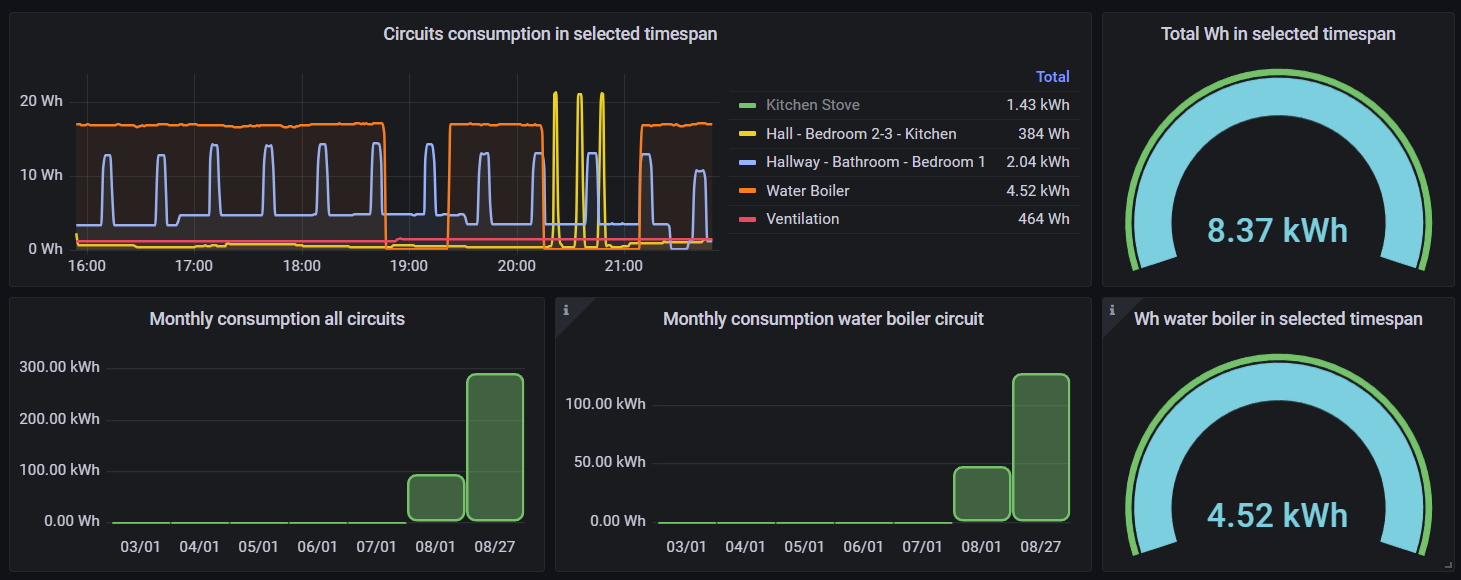
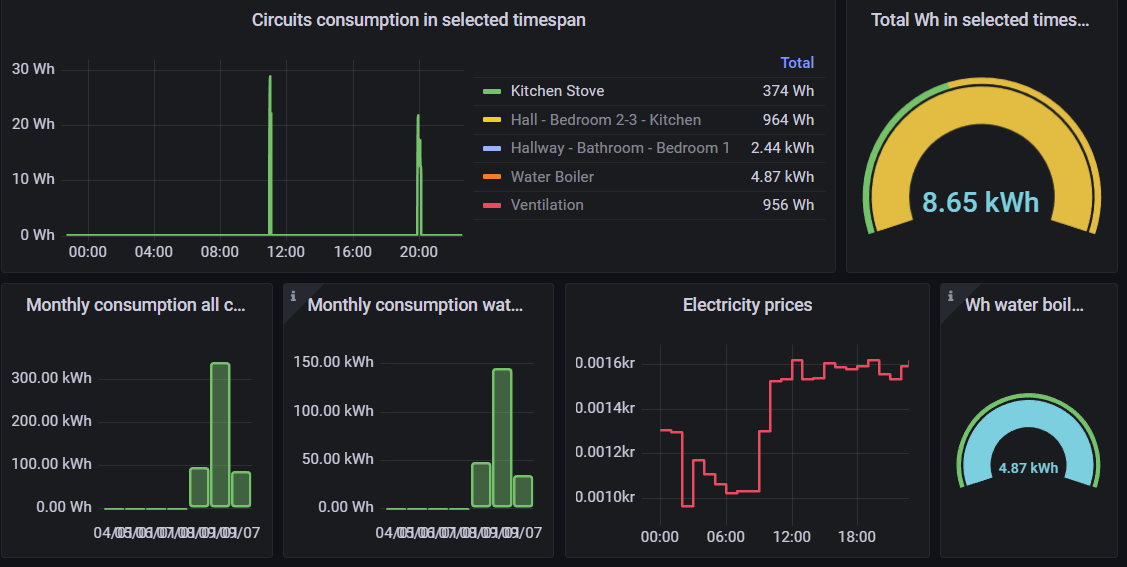
add electricity price

diff --git a/power_price/power_price_deamon.py b/power_price/power_price_deamon.py
@@ -1,0 +1,66 @@
+#
+#start at startup
+#sudo vi /etc/rc.local
+#sudo python /home/lun/power_monitor/power_price/power_price_deamon.py &
+#
+
+import requests
+from datetime import datetime, timedelta
+import time
+import influxdb_client
+from influxdb_client.client.write_api import SYNCHRONOUS
+#Påslag øre i abonomang
+ABO_PRICE_KR=2.80/100
+MVA=1.25
+
+
+
+
+url = "http://192.168.10.137:8086"
+bucket = "Home"
+token = ""
+orgid = "4f37428e4085d8e2"
+#"tagset": [],
+authtoken = "azEnZHCUW24OFSszKP7x1JagkdfUCJeIA-0lduU-jzHhS-zDXu9FyQ9R6ICXdT8Q92GeQmgbBYIF_lNgU-PScQ=="
+#"begdate": 1667257200
+
+client = influxdb_client.InfluxDBClient(
+   url=url,
+   token=authtoken,
+   org=orgid
+)
+
+# Write script
+write_api = client.write_api(write_options=SYNCHRONOUS)
+
+#p = influxdb_client.Point.measurement("pw_price_nok").field("val", 1.14).time("2023-09-06T18:30:00.224Z")
+#write_api.write(bucket=bucket, org=orgid, record=p)
+
+
+
+def parse_price(url):
+    r = requests.get(url=url )
+    r.status_code
+
+    file = r.json()
+    for element in file:
+        val = (element['NOK_per_kWh']*ABO_PRICE_KR*MVA)
+        time = element['time_start'][:-6]+".0Z"
+        p = influxdb_client.Point.measurement("pw_price_nok").field("val", val).time(time)
+        write_api.write(bucket=bucket, org=orgid, record=p)
+
+    return file
+
+last = datetime.now()
+while(True):
+    now = datetime.now() + timedelta(days=1)
+    if ( ((now - last).total_seconds()/3600 ) > 24 ) and ( now.hour > 19 ):
+        print("Update Db with electricity prices")
+        URL_HVA_KOSTER="https://www.hvakosterstrommen.no/api/v1/prices/%d/%.2d-%.2d_NO1.json" % (now.year, now.month,now.day )
+        last = now
+        parse_price(URL_HVA_KOSTER)
+    print("Sleep %s...\n" %  datetime.now().strftime('%Y-%m-%d %H:%M:%S'))
+    time.sleep(3600)
+    print("Wakeup %s...\n" %  datetime.now().strftime('%Y-%m-%d %H:%M:%S'))
+
+
